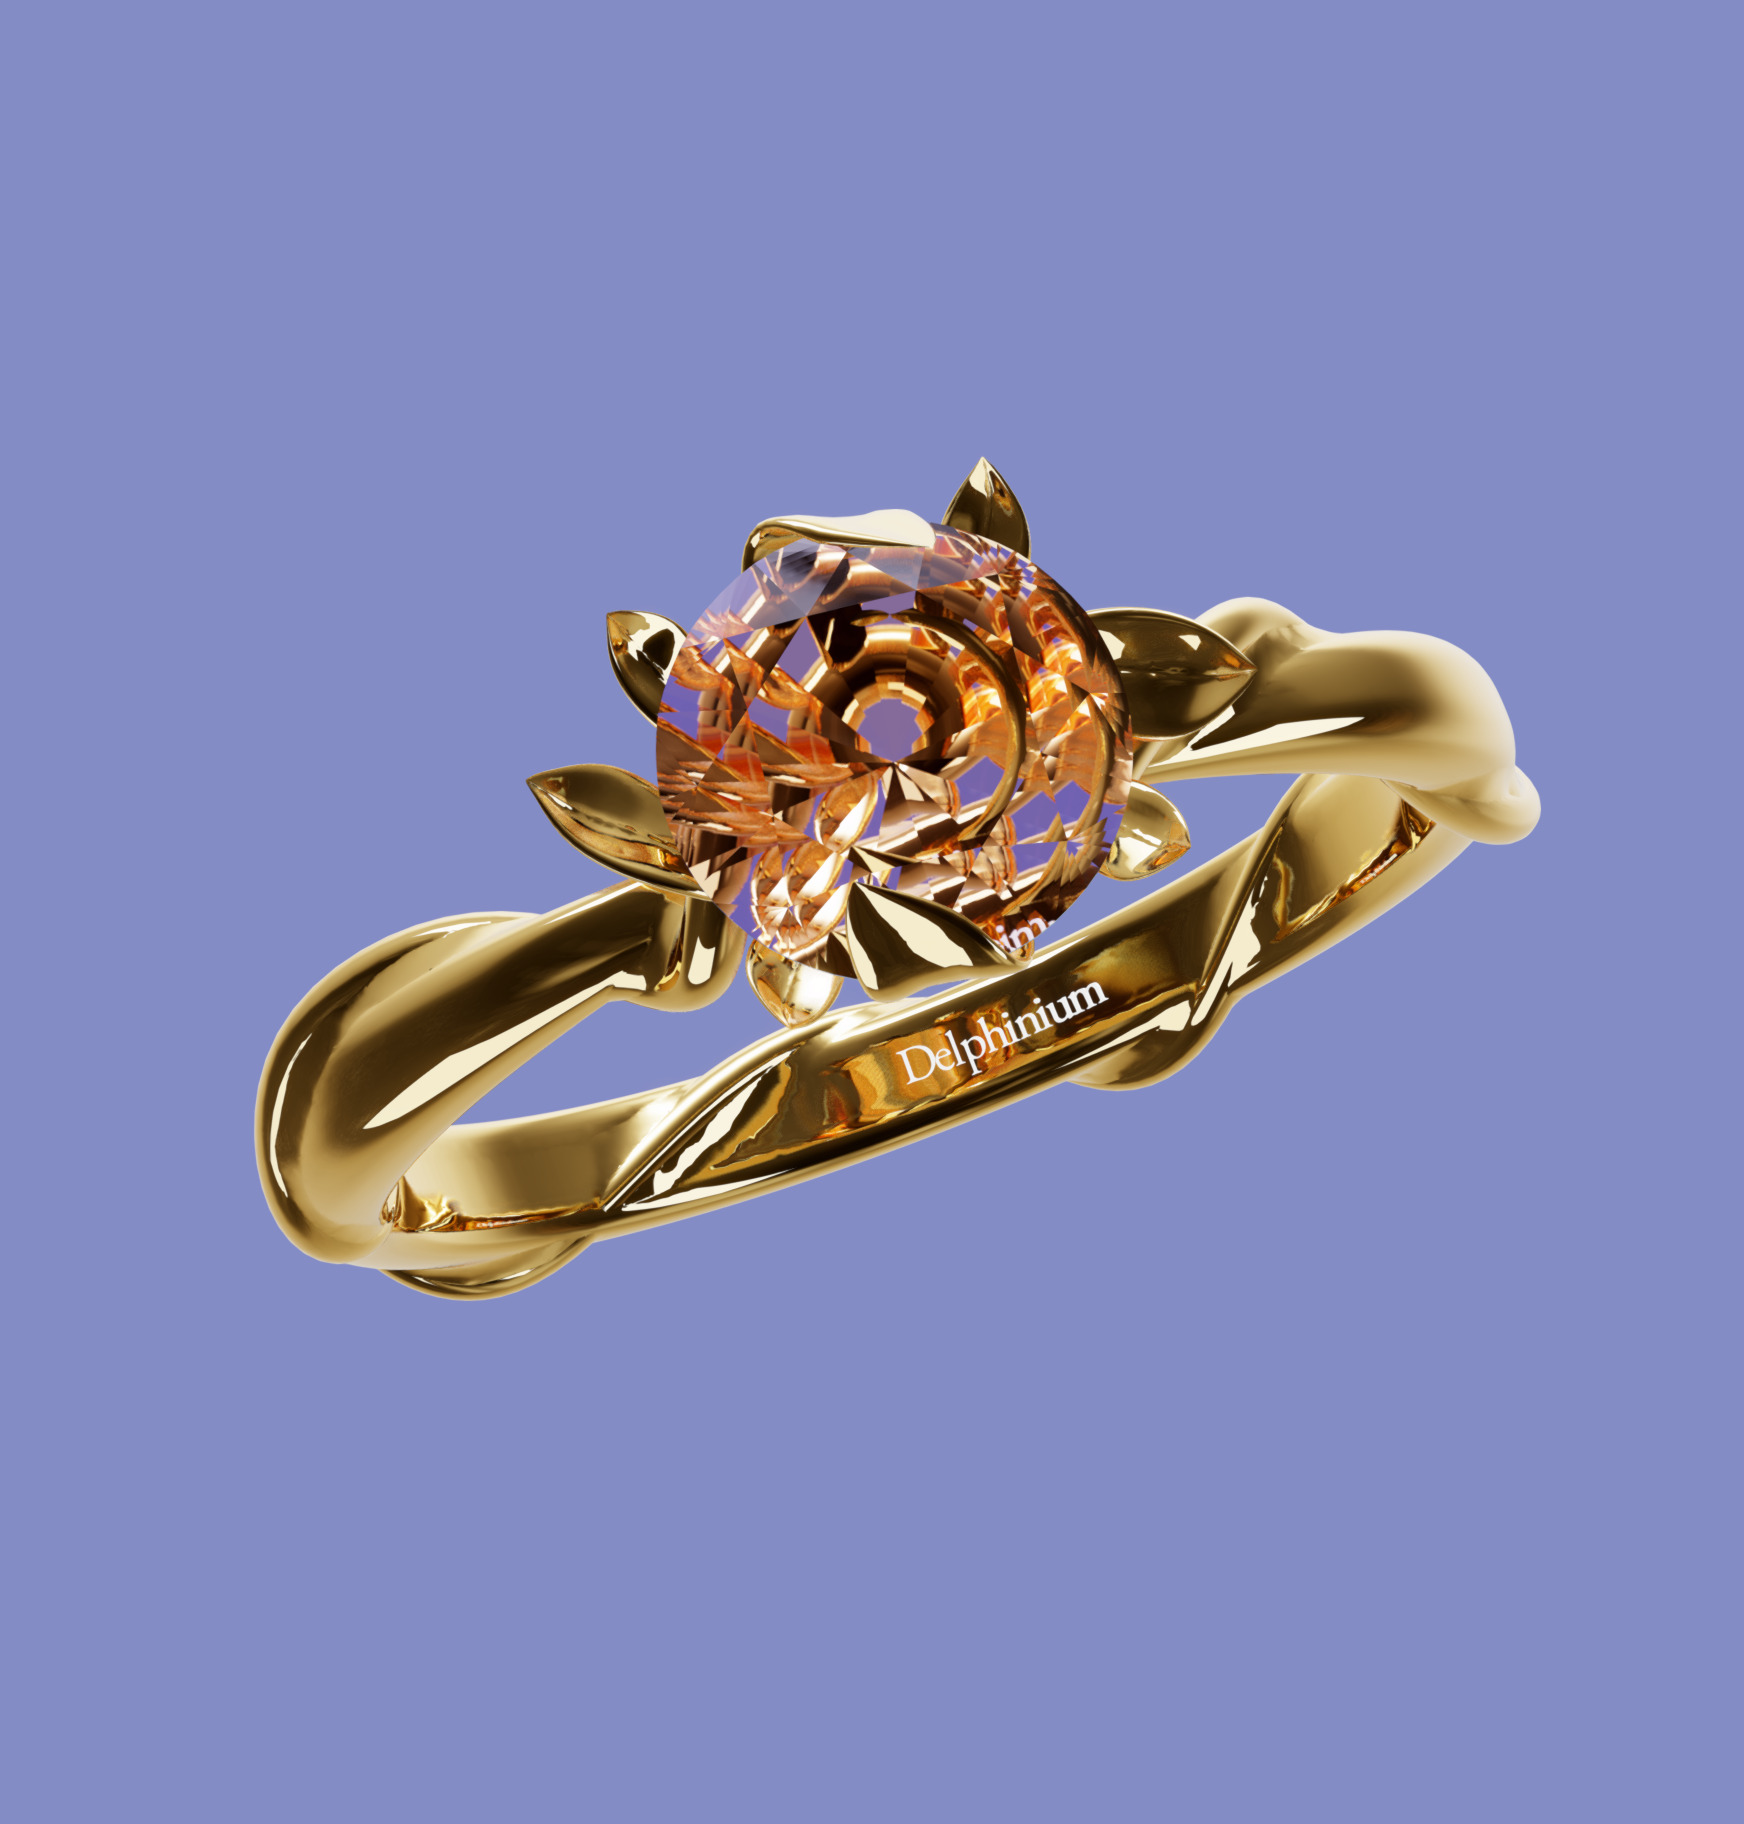
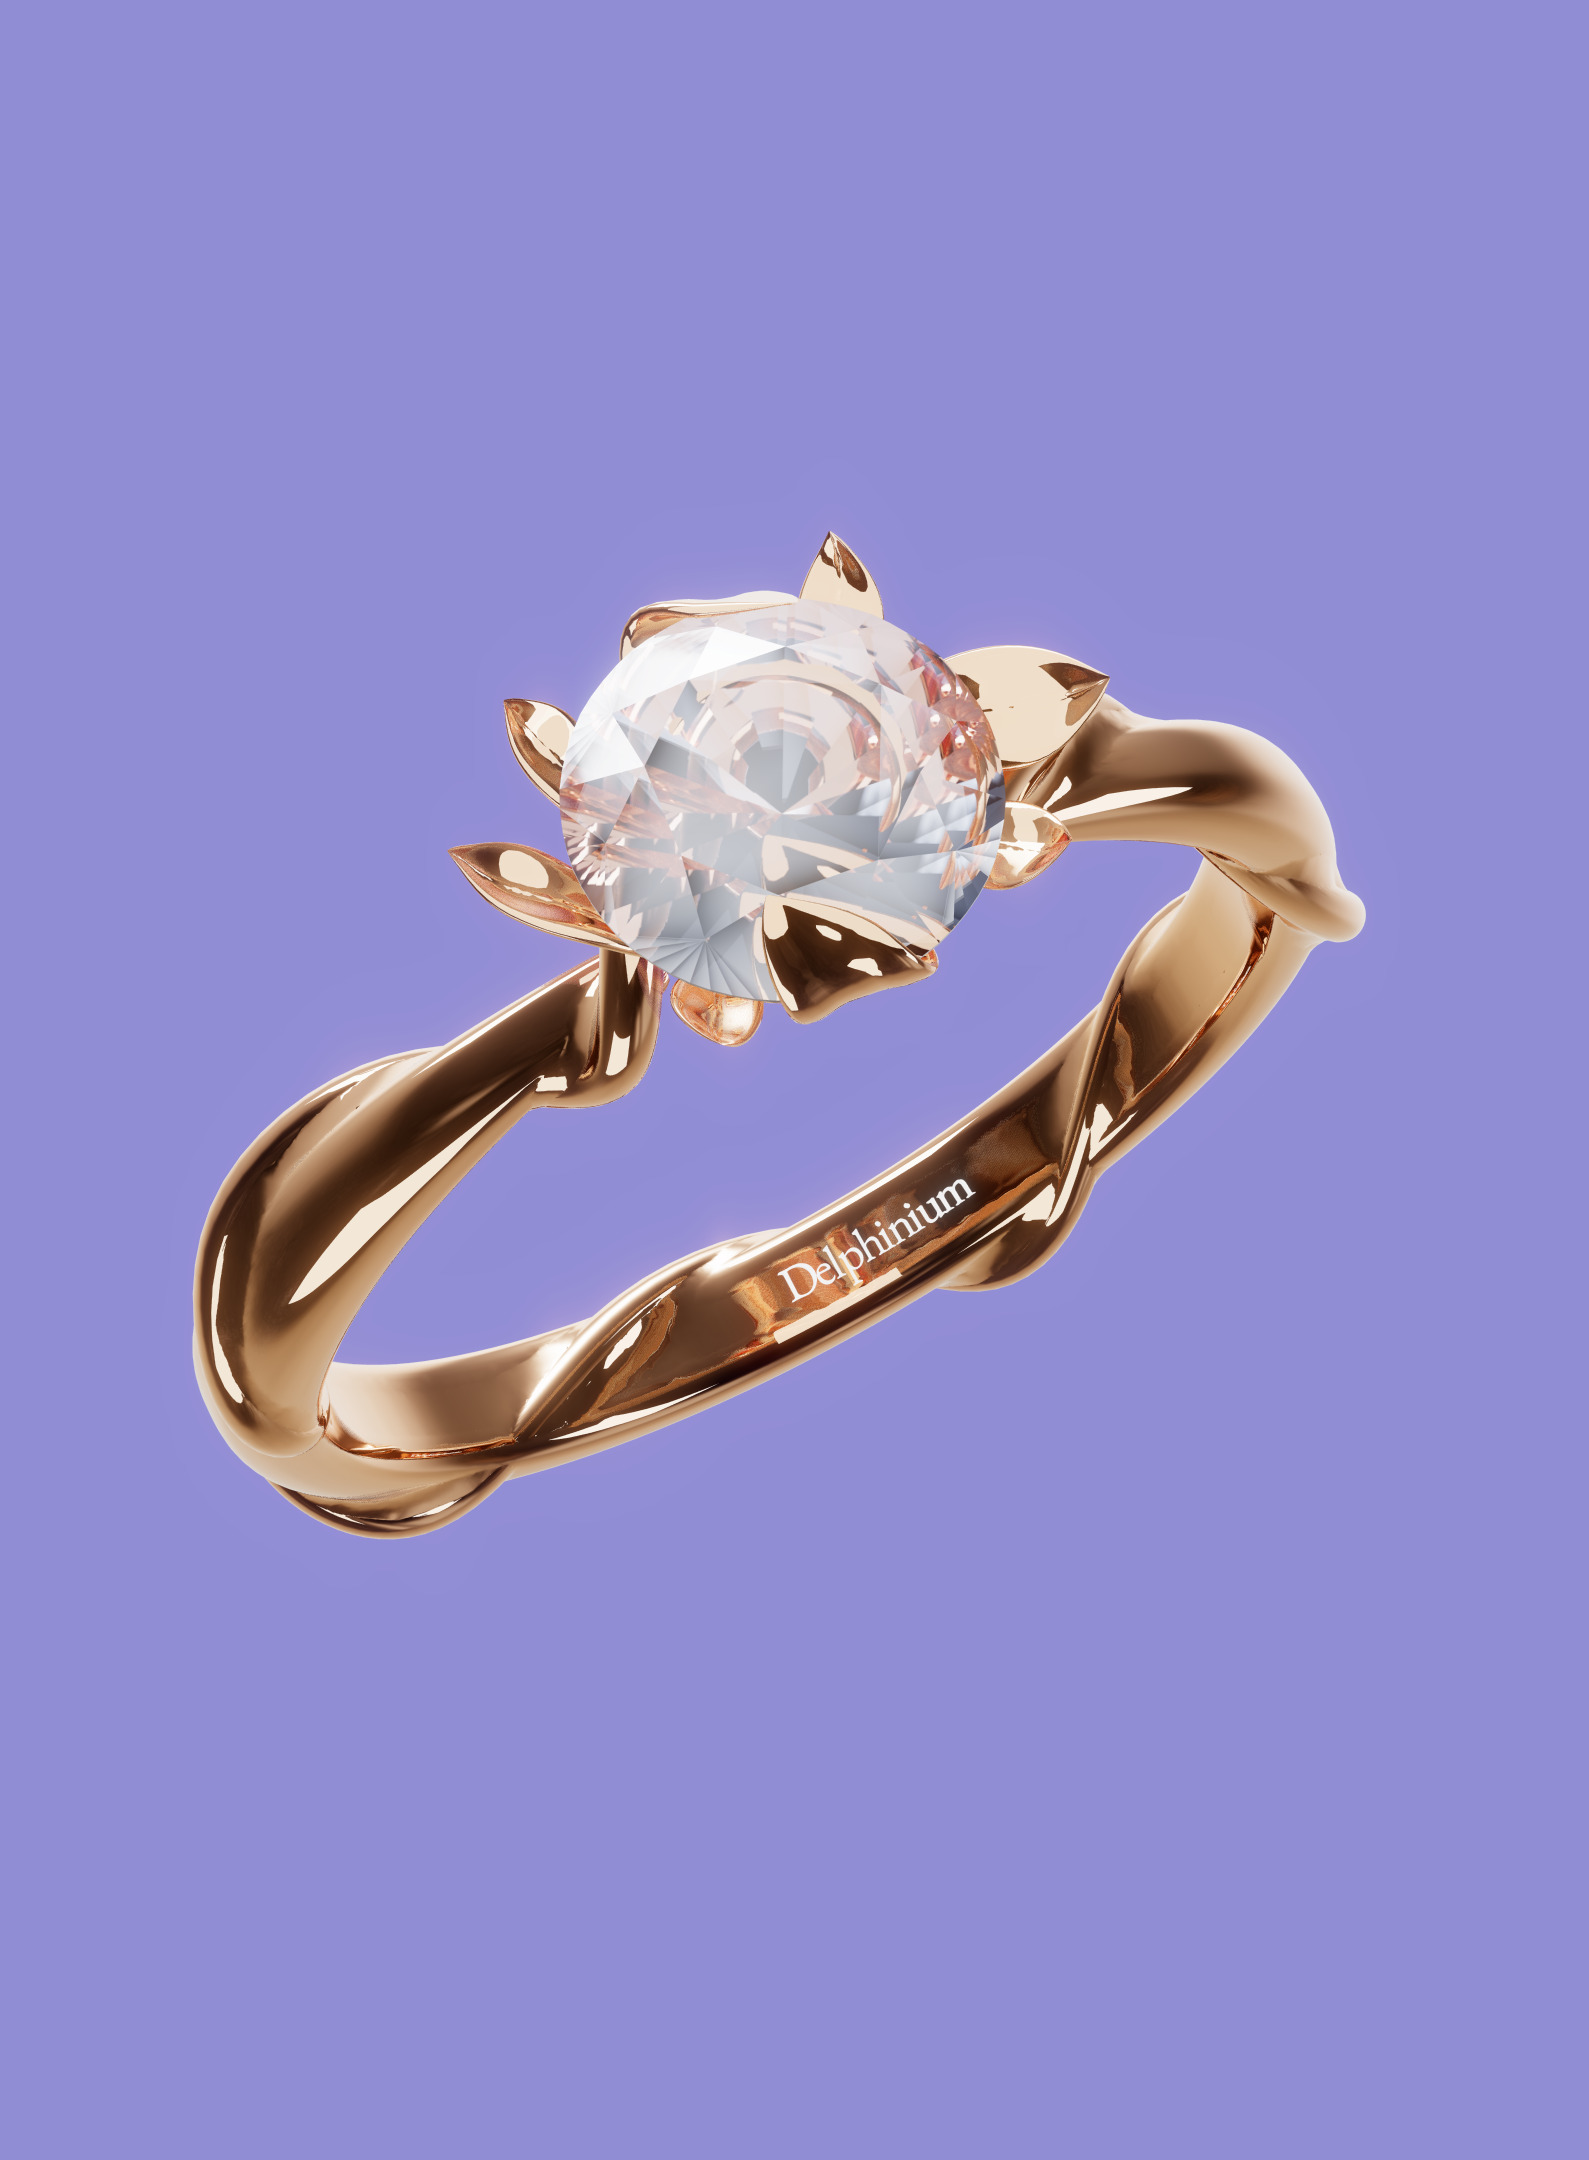
Add files via upload

Changed region(s): [[0.1233, 0.25, 0.8943, 0.7188]]

diff --git a/bague/index.html b/bague/index.html
@@ -313,7 +313,7 @@
     @media (max-width:768px) {
       header { padding:18px 22px; }
       .wrap {
-        --viewer-h:clamp(320px,78vw,400px);
+        --viewer-h:clamp(220px,52vw,300px);
         grid-template-columns:1fr;
         grid-template-areas:"viewer" "head" "panel";
         gap:0; column-gap:0; padding:12px 22px 60px;
@@ -323,7 +323,7 @@
       /* sticky pleine largeur : on annule le padding latéral du .wrap (22px) → bord à bord */
       .viewer {
         position:sticky; top:0; z-index:10;
-        background:var(--bg); margin:0 -22px; padding:8px 16px 10px;
+        background:var(--bg); margin:0 -22px; padding:6px 16px 6px;
       }
       .viewer-inner { max-width:none; margin:0; }
       iframe { height:var(--viewer-h); }
@@ -335,12 +335,12 @@
       /* bloc titre/prix collé sous le viewer sticky — pleine largeur (comme le viewer)
          + fondu doux sous le prix pour supprimer toute coupure avec le contenu qui défile */
       .product-head {
-        position:sticky; top:calc(var(--viewer-h) + 18px); z-index:9;
+        position:sticky; top:calc(var(--viewer-h) + 12px); z-index:9;
         background:var(--bg);
-        margin:0 -22px; padding:12px 22px 10px;
+        margin:0 -22px; padding:8px 22px 6px;
       }
       .product-head::after {
-        content:''; position:absolute; left:0; right:0; top:100%; height:30px;
+        content:''; position:absolute; left:0; right:0; top:100%; height:20px;
         background:linear-gradient(var(--bg), transparent); pointer-events:none;
       }
     }
@@ -674,12 +674,32 @@
       bloomers.forEach(el => el.classList.add("bloom"));
     }
 
+    // Mémorise la dernière animation lumière déclenchée, pour ne pas la rejouer inutilement.
+    let lastLightAnim = null;
     async function setMaterial(fromNames, newMat) {
       const cfg = await api.getConfigurationState();
       const next = cfg
         .filter(c => "active_material" in c && fromNames.includes(c.active_material) && c.active_material !== newMat)
         .map(c => ({ ...stripIds(c), active_material: newMat }));
       if (next.length) await api.setConfigurationState(next);
+      // Animation lumière : "Light In" pour le diamant, "Light Out" pour les autres pierres.
+      // Ne se déclenche que pour un changement de pierre (setMaterial est aussi utilisé pour les métaux).
+      if (STONE_NAMES.includes(newMat)) {
+        const wantLight = newMat === "Diamond" ? "Light In" : "Light Out";
+        // On ne (re)joue l'animation que si l'état lumière change réellement.
+        if (wantLight !== lastLightAnim) {
+          try {
+            if (wantLight === "Light In") {
+              await api.stopAnimation("Light Out");
+              await api.playAnimation("Light In");
+            } else {
+              await api.stopAnimation("Light In");
+              await api.playAnimation("Light Out");
+            }
+            lastLightAnim = wantLight;
+          } catch (e) {}
+        }
+      }
       await refresh();
       pulseViewer();
     }
